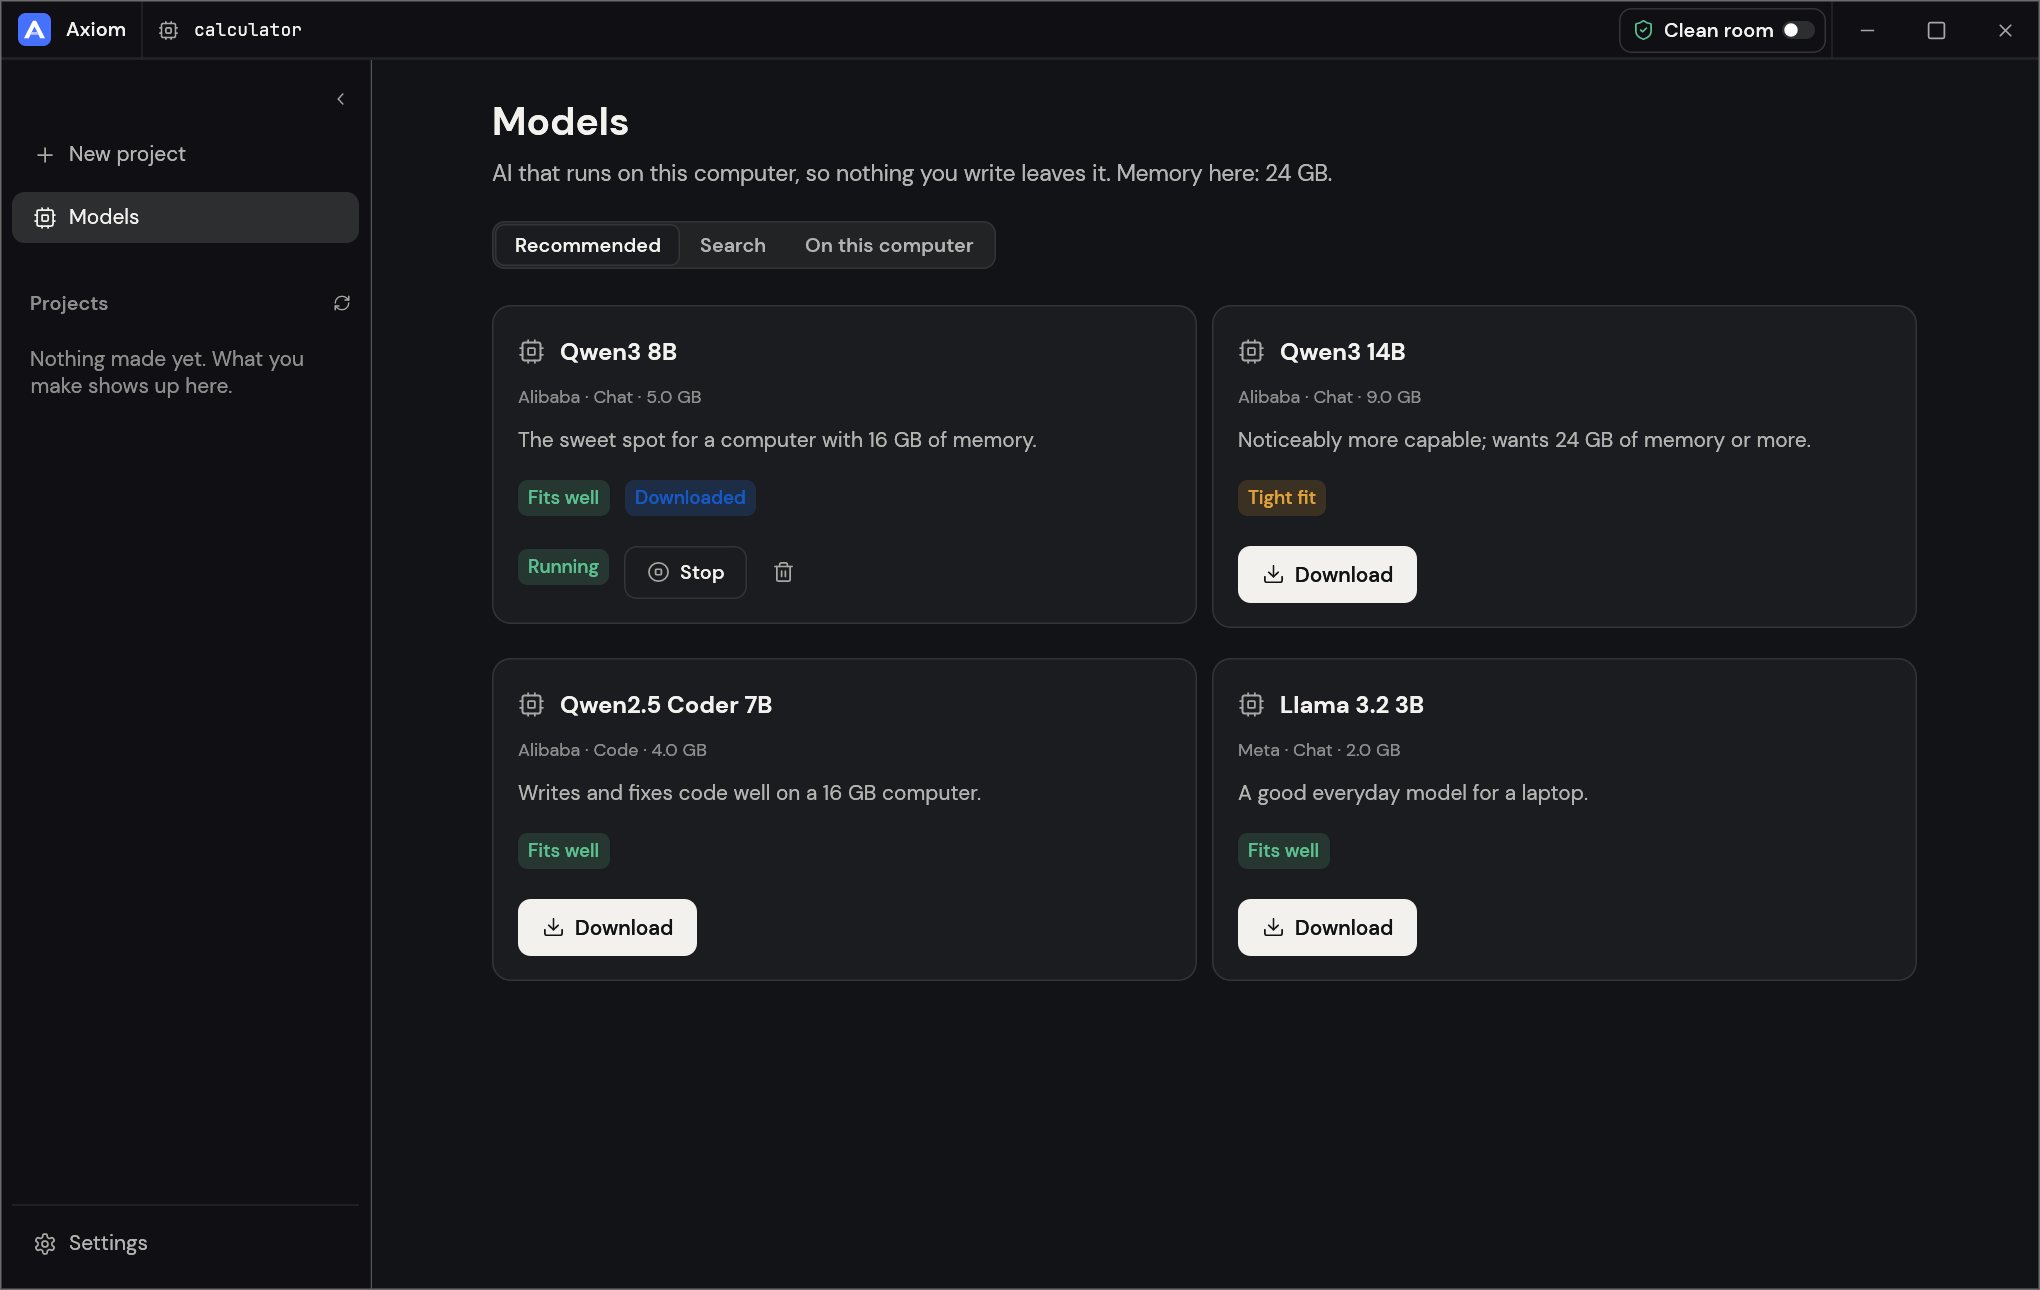
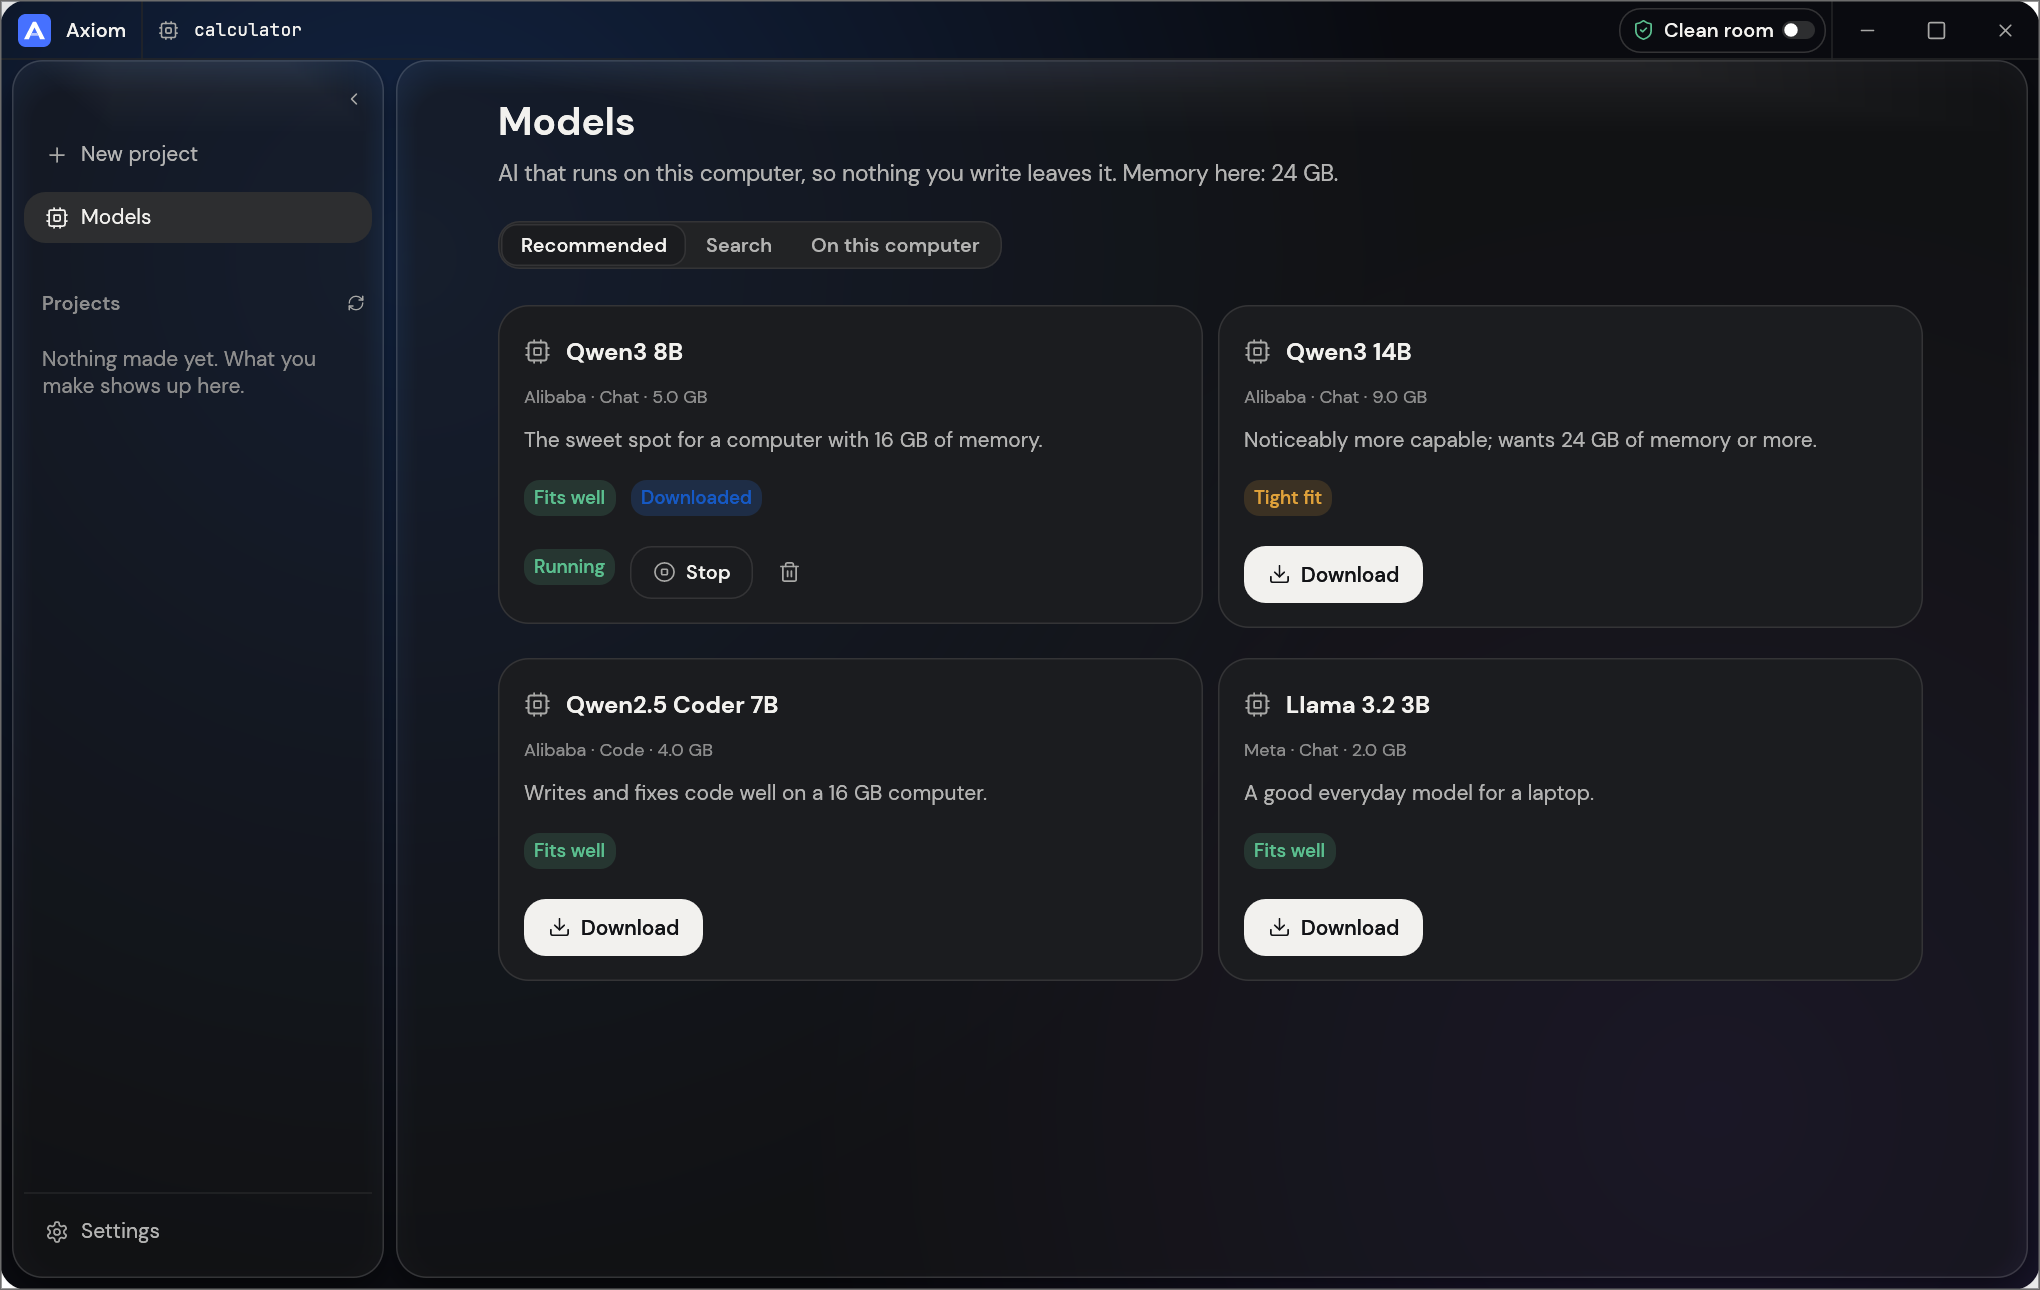
Liquid-glass, rounded interface (#7)
* Liquid-glass look: rounded floating glass panels on a soft backdrop, transparent window

Claude-Session: https://claude.ai/code/session_018KH1JEkwgxD1gyRQf1tjkd

* Rounder composer and fresh screenshots for the glass look

Claude-Session: https://claude.ai/code/session_018KH1JEkwgxD1gyRQf1tjkd

* Capsule sidebar rows

Claude-Session: https://claude.ai/code/session_018KH1JEkwgxD1gyRQf1tjkd

* Right-click menu on Settings in the sidebar

Claude-Session: https://claude.ai/code/session_018KH1JEkwgxD1gyRQf1tjkd

* Site: new screenshots of the glass interface (English and Russian)

Claude-Session: https://claude.ai/code/session_018KH1JEkwgxD1gyRQf1tjkd

* Agent in the Settings right-click menu

Claude-Session: https://claude.ai/code/session_018KH1JEkwgxD1gyRQf1tjkd

---------

diff --git a/crates/ui-egui/src/theme.rs b/crates/ui-egui/src/theme.rs
@@ -78,10 +78,27 @@ pub struct Tokens {
     pub warning: Color32,
     pub success: Color32,
     pub code_bg: Color32,
+    /// The glass surfaces float on: a deep base with two soft glows.
+    pub backdrop: Color32,
+    pub glow_a: Color32,
+    pub glow_b: Color32,
+    /// A glass panel's fill (translucent white over the backdrop), its rim light and the sheen
+    /// along its top edge.
+    pub glass: Color32,
+    pub glass_rim: Color32,
+    pub sheen: Color32,
     pub radius_sm: f32,
     pub radius: f32,
     pub radius_lg: f32,
 }
+
+/// Corner radii: soft everywhere, a pill for chips and the main buttons.
+pub const RADIUS_SM: f32 = 10.0;
+pub const RADIUS: f32 = 14.0;
+pub const RADIUS_LG: f32 = 20.0;
+/// The window's own corners, and the gap between the glass panels floating in it.
+pub const WINDOW_RADIUS: f32 = 18.0;
+pub const GAP: f32 = 8.0;
 
 /// The app colour: the deep accent (#1659c4). White on it passes WCAG AA; on its
 /// bright accent (#2d81ff, used for hover) it doesn't.
@@ -137,9 +154,15 @@ impl Tokens {
                 warning: BEST_GUESS,
                 success: Color32::from_rgb(0x5b, 0xbf, 0x8f),
                 code_bg: Color32::from_rgb(0x06, 0x06, 0x07),
-                radius_sm: 6.0,
-                radius: 8.0,
-                radius_lg: 12.0,
+                backdrop: Color32::from_rgb(0x0a, 0x0b, 0x10),
+                glow_a: Color32::from_rgba_unmultiplied(0x2d, 0x81, 0xff, 54),
+                glow_b: Color32::from_rgba_unmultiplied(0x8a, 0x5c, 0xff, 38),
+                glass: Color32::from_rgba_unmultiplied(0xff, 0xff, 0xff, 12),
+                glass_rim: Color32::from_rgba_unmultiplied(0xff, 0xff, 0xff, 36),
+                sheen: Color32::from_rgba_unmultiplied(0xff, 0xff, 0xff, 16),
+                radius_sm: RADIUS_SM,
+                radius: RADIUS,
+                radius_lg: RADIUS_LG,
             },
             // the light: warm paper (#f2f1ee), its sunken #e9e8e4 for the sidebar,
             // raised #faf9f7 for cards, ink #101014.
@@ -169,9 +192,15 @@ impl Tokens {
                 warning: Color32::from_rgb(0x9a, 0x67, 0x00),
                 success: Color32::from_rgb(0x12, 0x75, 0x36),
                 code_bg: Color32::from_rgb(0xe9, 0xe8, 0xe4),
-                radius_sm: 6.0,
-                radius: 8.0,
-                radius_lg: 12.0,
+                backdrop: Color32::from_rgb(0xe6, 0xe9, 0xf1),
+                glow_a: Color32::from_rgba_unmultiplied(0x2d, 0x81, 0xff, 46),
+                glow_b: Color32::from_rgba_unmultiplied(0xff, 0x8f, 0xb8, 40),
+                glass: Color32::from_rgba_unmultiplied(0xff, 0xff, 0xff, 150),
+                glass_rim: Color32::from_rgba_unmultiplied(0xff, 0xff, 0xff, 230),
+                sheen: Color32::from_rgba_unmultiplied(0xff, 0xff, 0xff, 120),
+                radius_sm: RADIUS_SM,
+                radius: RADIUS,
+                radius_lg: RADIUS_LG,
             },
         }
     }
@@ -193,6 +222,10 @@ impl Tokens {
     }
     pub fn r_lg(&self) -> CornerRadius {
         CornerRadius::same(self.radius_lg as u8)
+    }
+    /// Fully rounded ends.
+    pub fn r_pill(&self) -> CornerRadius {
+        CornerRadius::same(255)
     }
 }
 
@@ -361,13 +394,62 @@ pub fn scroll_style() -> egui::style::ScrollStyle {
 /// How opaque a scroll bar's thumb is at rest (over the text colour).
 const SCROLL_THUMB_AT_REST: f32 = 0.5;
 
+/// A soft round glow: `color` at the centre, fading to nothing at `radius`.
+fn glow(painter: &egui::Painter, centre: egui::Pos2, radius: f32, color: Color32) {
+    const STEPS: usize = 48;
+    let mut mesh = egui::Mesh::default();
+    mesh.colored_vertex(centre, color);
+    for i in 0..STEPS {
+        let a = (i as f32 / STEPS as f32) * std::f32::consts::TAU;
+        mesh.colored_vertex(centre + egui::vec2(a.cos(), a.sin()) * radius, Color32::TRANSPARENT);
+    }
+    for i in 0..STEPS {
+        mesh.add_triangle(0, 1 + i as u32, 1 + ((i + 1) % STEPS) as u32);
+    }
+    painter.add(egui::Shape::mesh(mesh));
+}
+
+/// What the glass floats on: a deep base with two soft glows, inside the window's rounded shape.
+pub fn backdrop(painter: &egui::Painter, rect: egui::Rect, radius: f32, t: &Tokens) {
+    painter.rect_filled(rect, radius, t.backdrop);
+    let reach = rect.width().min(rect.height() * 1.6) * 0.5;
+    glow(painter, egui::pos2(rect.left() + rect.width() * 0.2, rect.top() + rect.height() * 0.2), reach, t.glow_a);
+    glow(painter, egui::pos2(rect.right() - rect.width() * 0.16, rect.bottom() - rect.height() * 0.14), reach * 0.9, t.glow_b);
+}
+
+/// A panel of glass: a soft shadow, a translucent fill, a rim of light and a sheen along the top.
+pub fn glass_card(painter: &egui::Painter, rect: egui::Rect, radius: f32, t: &Tokens) {
+    painter.add(egui::Shadow { offset: [0, 8], blur: 28, spread: 0, color: t.shadow }.as_shape(rect, radius));
+    painter.rect_filled(rect, radius, t.glass);
+    // The sheen fades out toward both sides and downward, so it has no visible edges.
+    let top = rect.top() + 1.0;
+    let (l, r) = (rect.left() + radius * 0.5, rect.right() - radius * 0.5);
+    if r - l > 8.0 {
+        let xs = [l, l + (r - l) * 0.25, l + (r - l) * 0.75, r];
+        let mut mesh = egui::Mesh::default();
+        for (i, x) in xs.iter().enumerate() {
+            let edge = i == 0 || i == xs.len() - 1;
+            mesh.colored_vertex(egui::pos2(*x, top), if edge { Color32::TRANSPARENT } else { t.sheen });
+        }
+        for x in xs {
+            mesh.colored_vertex(egui::pos2(x, top + 48.0), Color32::TRANSPARENT);
+        }
+        for i in 0..3u32 {
+            mesh.add_triangle(i, i + 1, i + 5);
+            mesh.add_triangle(i, i + 5, i + 4);
+        }
+        painter.add(egui::Shape::mesh(mesh));
+    }
+    painter.rect_stroke(rect, radius, Stroke::new(1.0, t.glass_rim), egui::StrokeKind::Inside);
+}
+
 /// Apply a theme. `roomy` = Beginner mode (bigger type, more air).
 pub fn apply(ctx: &egui::Context, kind: ThemeKind, roomy: bool) {
     let t = Tokens::for_kind(kind);
     ctx.data_mut(|d| d.insert_temp(tokens_id(), t));
     ctx.set_theme(if t.dark() { egui::Theme::Dark } else { egui::Theme::Light });
     let mut v = if t.dark() { Visuals::dark() } else { Visuals::light() };
-    v.panel_fill = t.chrome;
+    v.panel_fill = Color32::TRANSPARENT;
     v.window_fill = t.card;
     v.window_stroke = Stroke::new(1.0, t.card_border);
     v.extreme_bg_color = t.field;
@@ -378,7 +460,7 @@ pub fn apply(ctx: &egui::Context, kind: ThemeKind, roomy: bool) {
     v.warn_fg_color = t.warning;
     v.error_fg_color = t.danger;
     v.window_corner_radius = t.r_lg();
-    v.menu_corner_radius = t.r();
+    v.menu_corner_radius = t.r_lg();
     v.window_shadow = egui::Shadow { offset: [0, 10], blur: 28, spread: 0, color: t.shadow };
     v.popup_shadow = egui::Shadow { offset: [0, 4], blur: 14, spread: 0, color: t.shadow };
     v.text_edit_bg_color = Some(t.field);

diff --git a/crates/ui-egui/src/lib.rs b/crates/ui-egui/src/lib.rs
@@ -1519,13 +1519,21 @@ impl CraftApp {
         self.tick(&ctx);
         self.shortcuts(&ctx);
         let t = theme::Tokens::get(&ctx);
+        // The window is glass floating on a soft backdrop: rounded, unless it fills the screen. The
+        // workbench's panels still fill their rectangles, so it keeps square corners.
+        let workbench = self.settings.first_run_done && !(self.beginner() || self.state.screen != Screen::Workbench);
+        let corner = if titlebar::maximized(&ctx) || workbench { 0.0 } else { theme::WINDOW_RADIUS };
+        theme::backdrop(&ctx.layer_painter(egui::LayerId::background()), ctx.content_rect(), corner, &t);
         // The title bar is on every screen: it is how the window moves, resizes and closes.
-        egui::Panel::top("titlebar").exact_size(titlebar::HEIGHT).frame(egui::Frame::new().fill(t.chrome)).show(ui, |ui| {
+        egui::Panel::top("titlebar").exact_size(titlebar::HEIGHT).show_separator_line(false).frame(egui::Frame::new()).show(ui, |ui| {
             guard_ui(ui, "title bar", |ui| titlebar::show(self, ui));
         });
         self.stuck_banner(ui, &ctx);
         if !self.settings.first_run_done {
-            egui::CentralPanel::default().frame(egui::Frame::new().fill(t.canvas)).show(ui, |ui| guard_ui(ui, "first run", |ui| first_run::show(self, ui)));
+            egui::CentralPanel::default().frame(egui::Frame::new().inner_margin(egui::Margin { left: 8, right: 8, top: 0, bottom: 8 })).show(ui, |ui| {
+                theme::glass_card(ui.painter(), ui.max_rect(), t.radius_lg, &t);
+                guard_ui(ui, "first run", |ui| first_run::show(self, ui))
+            });
             titlebar::window_edge(&ctx);
             titlebar::resize_edges(&ctx);
             return;
@@ -1533,11 +1541,19 @@ impl CraftApp {
 
         if self.beginner() || self.state.screen != Screen::Workbench {
             egui::Panel::left("app-sidebar")
-                .exact_size(sidebar::width(self, &ctx))
+                .exact_size(sidebar::width(self, &ctx) + 12.0)
                 .resizable(false)
-                .frame(egui::Frame::new().fill(t.chrome).inner_margin(egui::Margin::symmetric(8, 0)))
-                .show(ui, |ui| guard_ui(ui, "sidebar", |ui| sidebar::show(self, ui)));
-            egui::CentralPanel::default().frame(egui::Frame::new().fill(t.canvas)).show(ui, |ui| {
+                .show_separator_line(false)
+                .frame(egui::Frame::new().inner_margin(egui::Margin { left: 8, right: 4, top: 0, bottom: 8 }))
+                .show(ui, |ui| {
+                    guard_ui(ui, "sidebar", |ui| {
+                        let card = ui.max_rect();
+                        theme::glass_card(ui.painter(), card, t.radius_lg, &t);
+                        ui.scope_builder(egui::UiBuilder::new().max_rect(card.shrink2(egui::vec2(8.0, 0.0))), |ui| sidebar::show(self, ui));
+                    })
+                });
+            egui::CentralPanel::default().frame(egui::Frame::new().inner_margin(egui::Margin { left: 4, right: 8, top: 0, bottom: 8 })).show(ui, |ui| {
+                theme::glass_card(ui.painter(), ui.max_rect(), t.radius_lg, &t);
                 guard_ui(ui, "simple", |ui| match self.state.screen {
                     Screen::Home | Screen::Workbench => home::show(self, ui),
                     Screen::Ask => chat::ask_screen(self, ui),
@@ -1695,6 +1711,11 @@ pub fn guard_ui(ui: &mut egui::Ui, what: &str, f: impl FnOnce(&mut egui::Ui)) {
 impl eframe::App for CraftApp {
     fn ui(&mut self, ui: &mut egui::Ui, _frame: &mut eframe::Frame) {
         self.show(ui);
+    }
+
+    /// The window is transparent, so the rounded glass shows the desktop at its corners.
+    fn clear_color(&self, _visuals: &egui::Visuals) -> [f32; 4] {
+        [0.0, 0.0, 0.0, 0.0]
     }
 
     fn save(&mut self, storage: &mut dyn eframe::Storage) {

diff --git a/crates/ui-egui/src/sidebar.rs b/crates/ui-egui/src/sidebar.rs
@@ -119,9 +119,25 @@ pub fn show(app: &mut CraftApp, ui: &mut Ui) {
     });
     ui.painter().hline(ui.max_rect().x_range(), ui.cursor().top() + 1.0, egui::Stroke::new(1.0, t.separator));
     ui.add_space(10.0);
-    if row(ui, "settings", "Settings", None, app.state.settings_open).clicked() {
+    let settings = row(ui, "settings", "Settings", None, app.state.settings_open);
+    if settings.clicked() {
         app.state.settings_open = !app.state.settings_open;
     }
+    // Right-click for the profile-style menu: the places a person goes from here.
+    settings.context_menu(|ui| {
+        if ui.button(tr("Settings")).clicked() {
+            app.state.settings_open = true;
+            ui.close();
+        }
+        if ui.button(tr("Models")).clicked() {
+            app.state.screen = Screen::Models;
+            ui.close();
+        }
+        if ui.button(tr("Agent")).clicked() {
+            app.state.screen = Screen::Agent;
+            ui.close();
+        }
+    });
 }
 
 /// A folded section's heading: a row as tall as the open one, with something `width` wide centred.
@@ -151,7 +167,8 @@ pub(crate) fn row(ui: &mut Ui, icon: &str, label: &str, status: Option<(egui::Co
     let (rect, resp) = ui.allocate_exact_size(Vec2::new(ui.available_width(), ROW_H), Sense::click());
     let h = widgets::hover_t(ui, &resp);
     let fill = if on { t.pressed } else { theme::mix(egui::Color32::TRANSPARENT, t.hover, h) };
-    ui.painter().rect_filled(rect, t.radius, fill);
+    // Capsule rows, as in the macOS apps.
+    ui.painter().rect_filled(rect, rect.height() / 2.0, fill);
     let ink = if on { t.text } else { theme::mix(t.text_dim, t.text, h) };
     // Project names are shown as written; the app's own rows are translated.
     let text = if status.is_some() { label.to_string() } else { tr(label) };

diff --git a/crates/ui-egui/src/chat.rs b/crates/ui-egui/src/chat.rs
@@ -134,13 +134,13 @@ pub fn suggestions(kind: Option<TargetKind>) -> Vec<&'static str> {
 
 /// Beginner Ask screen: target card on the left, conversation in the centre.
 pub fn ask_screen(app: &mut CraftApp, ui: &mut Ui) {
-    let t = Tokens::get(ui.ctx());
+    let _t = Tokens::get(ui.ctx());
     let side_w = 300.0_f32.min(ui.available_width() * 0.3);
     // What's open sits on the right; the app's sidebar is on the left.
-    egui::Panel::right("ask-side").exact_size(side_w).resizable(false).frame(egui::Frame::new().fill(t.canvas).inner_margin(Margin::same(20))).show(ui, |ui| {
+    egui::Panel::right("ask-side").exact_size(side_w).resizable(false).frame(egui::Frame::new().inner_margin(Margin::same(20))).show(ui, |ui| {
         target_card(app, ui);
     });
-    egui::CentralPanel::default().frame(egui::Frame::new().fill(t.canvas).inner_margin(PANE_MARGIN)).show(ui, |ui| {
+    egui::CentralPanel::default().frame(egui::Frame::new().inner_margin(PANE_MARGIN)).show(ui, |ui| {
         conversation(app, ui, false);
     });
 }

diff --git a/crates/ui-egui/src/project.rs b/crates/ui-egui/src/project.rs
@@ -610,10 +610,10 @@ pub fn show(app: &mut CraftApp, ui: &mut Ui) {
         egui::Panel::right("project-side")
             .exact_size(SIDE_W)
             .resizable(false)
-            .frame(egui::Frame::new().fill(t.canvas).inner_margin(Margin::same(20)))
+            .frame(egui::Frame::new().inner_margin(Margin::same(20)))
             .show(ui, |ui| egui::ScrollArea::vertical().show(ui, |ui| side(app, ui, &ws)));
     }
-    egui::CentralPanel::default().frame(egui::Frame::new().fill(t.canvas).inner_margin(chat::PANE_MARGIN)).show(ui, |ui| {
+    egui::CentralPanel::default().frame(egui::Frame::new().inner_margin(chat::PANE_MARGIN)).show(ui, |ui| {
         let width = ui.available_width();
         let max_w = width.min(720.0);
         let pad = ((width - max_w) / 2.0).max(0.0);

diff --git a/crates/ui-egui/src/prompt_box.rs b/crates/ui-egui/src/prompt_box.rs
@@ -124,8 +124,8 @@ pub fn show(ui: &mut Ui, text: &mut String, attachments: &[PathBuf], b: PromptBo
     let frame = egui::Frame::new()
         .fill(t.card)
         .stroke(stroke)
-        .corner_radius(t.r_lg())
-        .shadow(egui::Shadow { offset: [0, 2], blur: 12, spread: 0, color: t.shadow })
+        .corner_radius(egui::CornerRadius::same(26))
+        .shadow(egui::Shadow { offset: [0, 6], blur: 24, spread: 0, color: t.shadow })
         .inner_margin(Margin { left: 16, right: 10, top: 14, bottom: 10 });
     // Stacked top to bottom whatever the caller's layout (it's often placed in a row).
     frame.show(ui, |ui| {

diff --git a/crates/ui-egui/tests/smoke.rs b/crates/ui-egui/tests/smoke.rs
@@ -473,7 +473,7 @@ fn a_finished_build_can_be_pinned_and_opened_from_the_sidebar() {
     ws.save().unwrap();
     let root = ws.root.clone();
     let projects = d.path().to_path_buf();
-    let mut h = harness(move || {
+    let mut h = harness_sized(egui::vec2(1280.0, 1000.0), move || {
         let mut a = demo::app(demo::engine(Mode::Beginner, true));
         // Pins are listed from the project folders in settings: only this test's.
         a.engine.session().settings.projects_dir = Some(projects);

diff --git a/apps/axiom/src/main.rs b/apps/axiom/src/main.rs
@@ -42,6 +42,8 @@ fn main() -> eframe::Result {
         .with_min_inner_size([760.0, 520.0])
         // Our own title bar draws the window controls, moves and resizes the window.
         .with_decorations(false)
+        // Transparent, so the rounded glass window shows the desktop at its corners.
+        .with_transparent(true)
         .with_resizable(true)
         .with_drag_and_drop(true);
     // On macOS a window icon replaces the Dock icon, and the bundle's own icon is the one padded to

diff --git a/crates/ui-egui/src/titlebar.rs b/crates/ui-egui/src/titlebar.rs
@@ -15,7 +15,7 @@ pub const HEIGHT: f32 = 40.0;
 /// How close to the window edge the pointer must be to resize.
 const EDGE: f32 = 5.0;
 
-fn maximized(ctx: &egui::Context) -> bool {
+pub fn maximized(ctx: &egui::Context) -> bool {
     ctx.input(|i| i.viewport().maximized.unwrap_or(false) || i.viewport().fullscreen.unwrap_or(false))
 }
 
